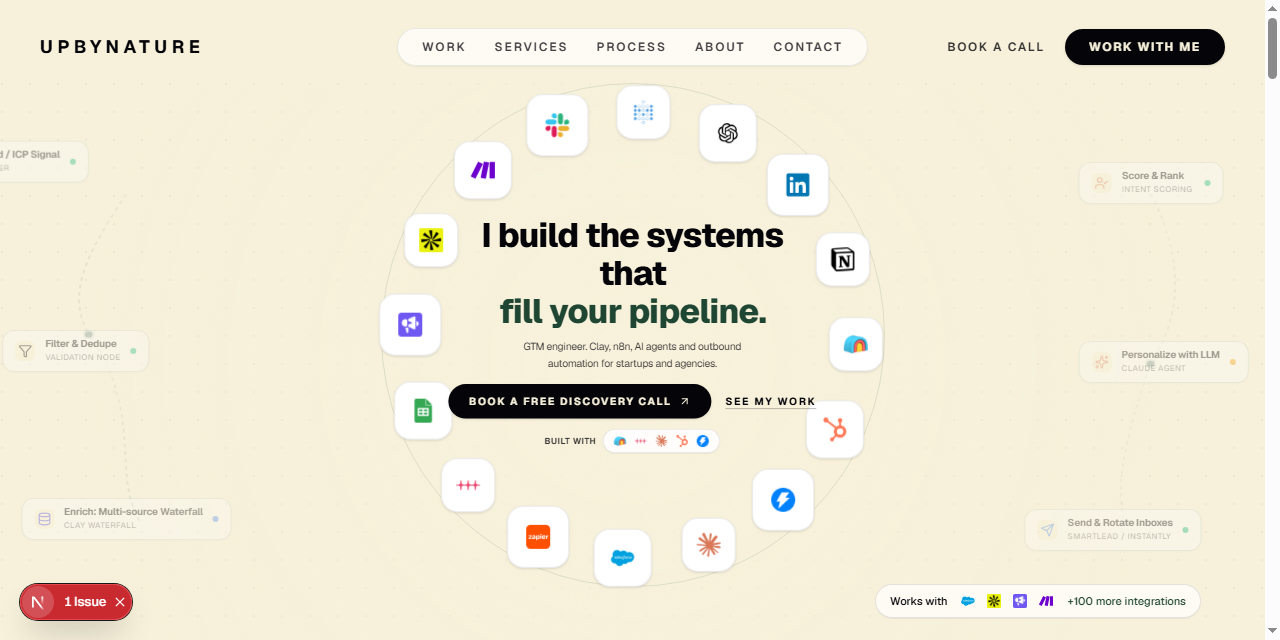
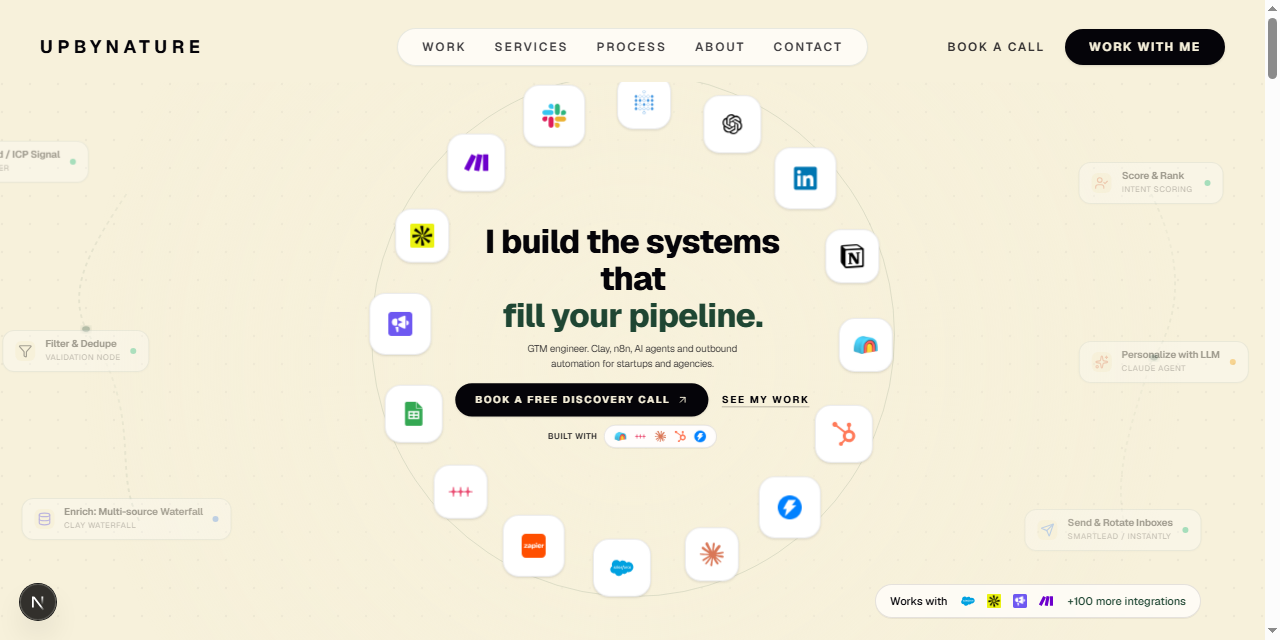
fix(hero): refine text block scaling and clearance for compact viewports

diff --git a/src/components/Hero.tsx b/src/components/Hero.tsx
@@ -22,10 +22,10 @@ export function Hero() {
     const handleResize = () => {
       const vw = window.innerWidth;
       const vh = window.innerHeight;
-      const base = Math.min(vw * 0.62, vh * 0.86);
-      const maxVerticalFit = vh - 136;
-      const target = Math.min(base, maxVerticalFit > 0 ? maxVerticalFit : base);
-      const clamped = Math.max(480, Math.min(target, 780));
+      const computed = Math.min(vw * 0.62, vh * 0.86);
+      const maxVerticalFit = vh - 116; // navbar ~72px + worksWith ~36px + 8px padding
+      const target = Math.min(computed, maxVerticalFit > 520 ? maxVerticalFit : Math.max(520, maxVerticalFit));
+      const clamped = Math.max(520, Math.min(target, 780));
       setRingSize(clamped);
     };
 
@@ -40,17 +40,18 @@ export function Hero() {
     const rect = textBlockRef.current.getBoundingClientRect();
     const radius = (ringSize - 58) / 2;
     const safeRadius = radius - 29 - 24; // inner edge minus 24px clearance
-    const halfH = rect.height / (2 * contentScale);
-    const halfW = rect.width / (2 * contentScale);
+    const halfH = rect.height / 2;
+    const halfW = rect.width / 2;
     const cornerDist = Math.sqrt(halfW * halfW + halfH * halfH);
 
-    if (halfH > safeRadius || cornerDist > safeRadius + 30) {
-      const neededScale = Math.min(1, (safeRadius - 4) / Math.max(halfH, cornerDist * 0.72));
-      setContentScale(Math.max(0.85, neededScale));
+    if (cornerDist > safeRadius || halfH > safeRadius - 10) {
+      const neededScale = (safeRadius - 8) / Math.max(halfH + 10, cornerDist);
+      const target = Math.max(0.78, Number(neededScale.toFixed(2)));
+      setContentScale((prev) => (Math.abs(prev - target) > 0.02 ? target : prev));
     } else {
-      setContentScale(1);
+      setContentScale((prev) => (prev !== 1 ? 1 : prev));
     }
-  }, [ringSize, contentScale]);
+  }, [ringSize]);
 
   // Subtle mouse-parallax on desktop
   const handleMouseMove = (e: React.MouseEvent<HTMLDivElement>) => {
@@ -220,9 +221,9 @@ export function Hero() {
             <h1
               className="font-extrabold tracking-tight text-[#050409] leading-[1.12]"
               style={{
-                fontSize: `clamp(26px, ${ringSize * 0.078}px, 52px)`,
-                maxWidth: `min(${ringSize * 0.74}px, 540px)`,
-                marginBottom: ringSize < 560 ? "10px" : "14px",
+                fontSize: `clamp(24px, ${ringSize * 0.076}px, 50px)`,
+                maxWidth: `min(${ringSize * 0.72}px, 500px)`,
+                marginBottom: ringSize < 560 ? "8px" : "14px",
               }}
             >
               I build the systems that{" "}
@@ -234,8 +235,8 @@ export function Hero() {
               className="text-[#050409]/75 font-normal leading-relaxed tracking-tight"
               style={{
                 fontSize: `clamp(12px, ${ringSize * 0.022}px, 15px)`,
-                maxWidth: `${ringSize * 0.56}px`,
-                marginBottom: ringSize < 560 ? "14px" : "20px",
+                maxWidth: `${ringSize * 0.54}px`,
+                marginBottom: ringSize < 560 ? "12px" : "18px",
               }}
             >
               GTM engineer. Clay, n8n, AI agents and outbound automation for startups and agencies.
@@ -243,16 +244,16 @@ export function Hero() {
 
             {/* CTAs: Primary Dark Pill Button + "See my work" Link */}
             <div
-              className="flex flex-col sm:flex-row items-center gap-3 sm:gap-4"
+              className="flex flex-row items-center justify-center gap-2.5 sm:gap-4"
               style={{
-                marginBottom: ringSize < 560 ? "12px" : "16px",
+                marginBottom: ringSize < 560 ? "10px" : "16px",
               }}
             >
               <a
                 href={hero.ctaPrimary.href}
                 target="_blank"
                 rel="noopener noreferrer"
-                className="group px-5 py-2.5 sm:px-6 sm:py-3 rounded-full bg-[#050409] hover:bg-[#1F4633] text-[#F7F1DB] text-xs font-bold uppercase tracking-[0.16em] transition-all duration-200 shadow-sm hover:shadow active:scale-95 flex items-center gap-2"
+                className="group px-4 py-2 sm:px-6 sm:py-3 rounded-full bg-[#050409] hover:bg-[#1F4633] text-[#F7F1DB] text-[11px] sm:text-xs font-bold uppercase tracking-[0.14em] sm:tracking-[0.16em] transition-all duration-200 shadow-sm hover:shadow active:scale-95 flex items-center gap-1.5 sm:gap-2 whitespace-nowrap"
               >
                 <span>{hero.ctaPrimary.label}</span>
                 <ArrowUpRight className="w-3.5 h-3.5 group-hover:translate-x-0.5 group-hover:-translate-y-0.5 transition-transform" />
@@ -260,7 +261,7 @@ export function Hero() {
 
               <a
                 href={hero.ctaSecondary.href}
-                className="text-xs font-bold uppercase tracking-[0.16em] text-[#050409] hover:text-[#1F4633] transition-colors py-1 underline underline-offset-4 decoration-[#050409]/30 hover:decoration-[#1F4633]"
+                className="text-[11px] sm:text-xs font-bold uppercase tracking-[0.14em] sm:tracking-[0.16em] text-[#050409] hover:text-[#1F4633] transition-colors py-1 underline underline-offset-4 decoration-[#050409]/30 hover:decoration-[#1F4633] whitespace-nowrap"
               >
                 {hero.ctaSecondary.label}
               </a>
